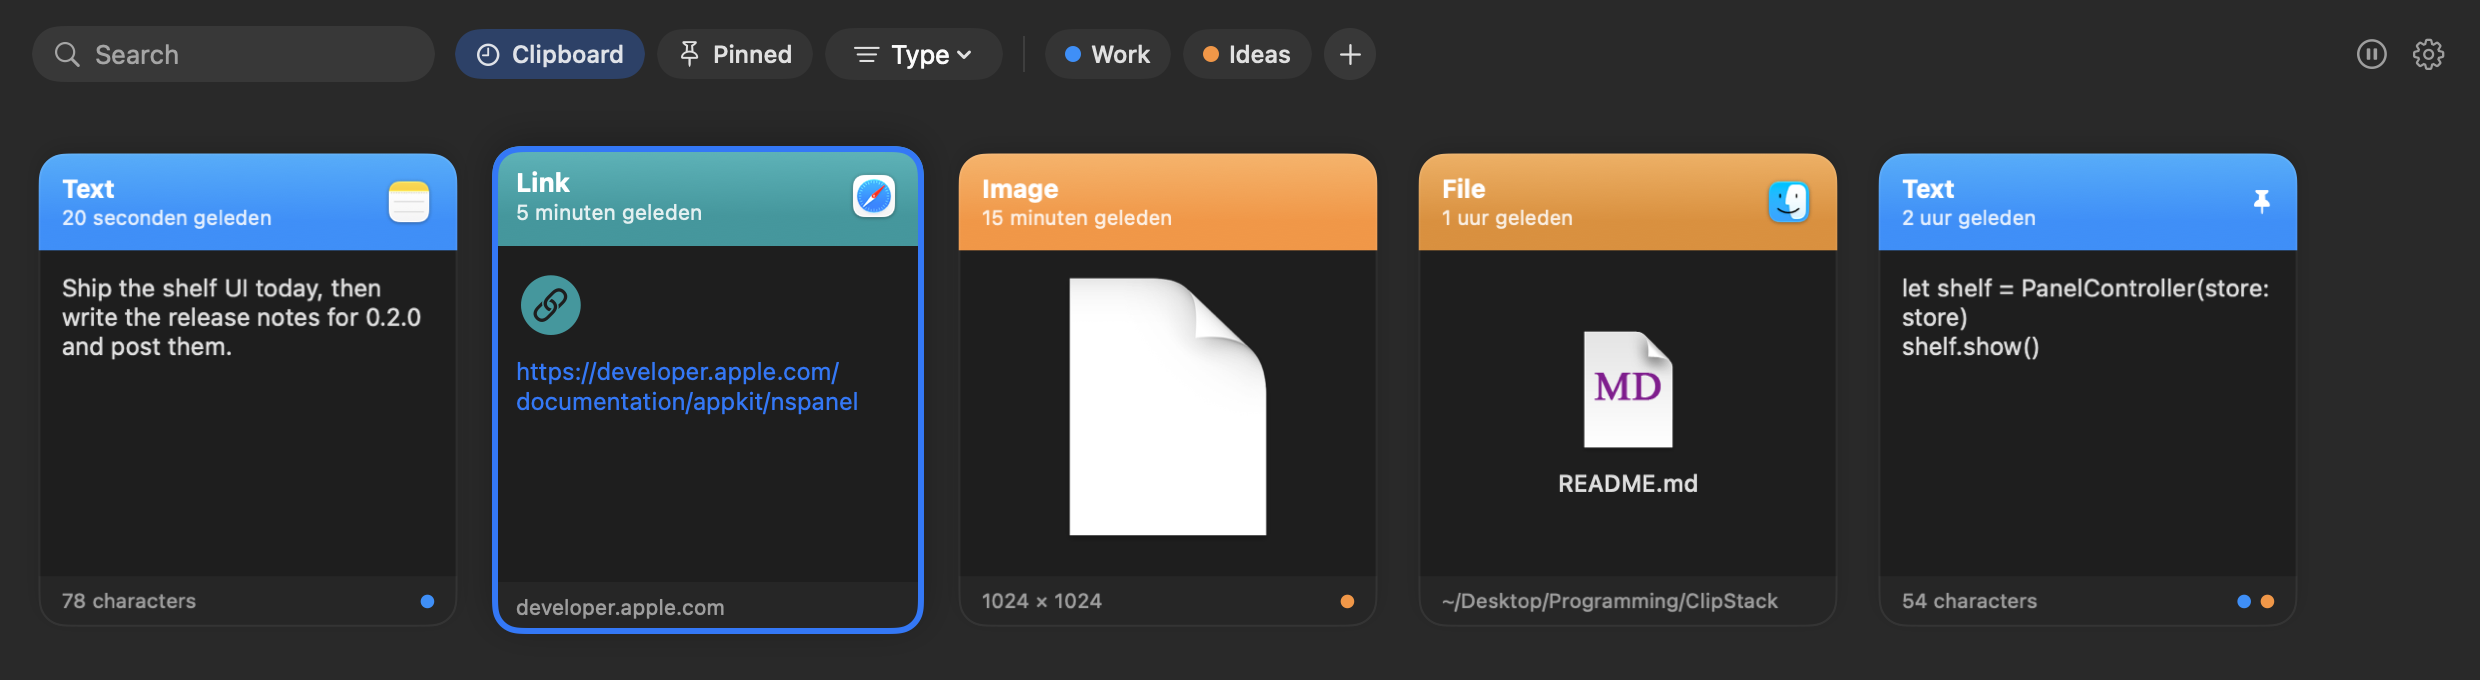
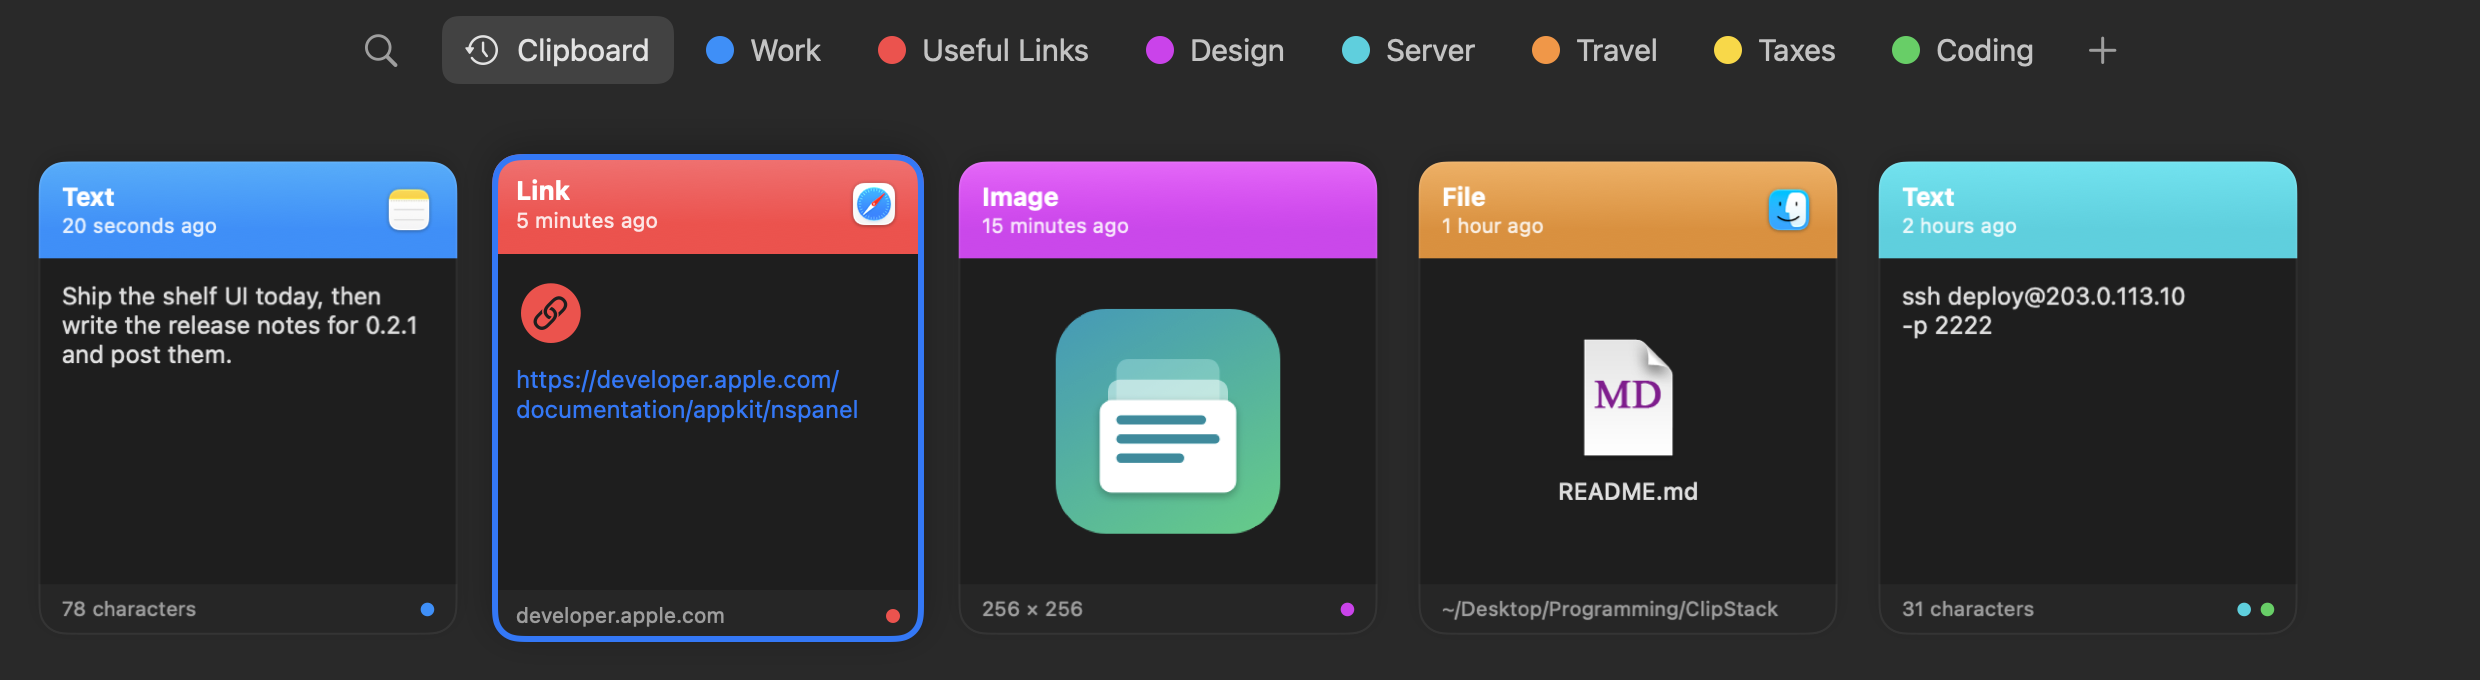
Restyle shelf top bar; type to search (0.2.1)
- Centered row: search icon, Clipboard, categories as dots, +
- Typing on the shelf opens search; Esc clears then closes it
- Type filter moved into the search field; Pinned tab only when used
- Pause and Settings removed from the bar (still in the menu bar menu)

diff --git a/Sources/ShelfView.swift b/Sources/ShelfView.swift
@@ -19,6 +19,8 @@ final class ShelfModel: ObservableObject {
     /// Non-nil while the inline category name field is showing.
     @Published var categoryDraft: CategoryDraft?
     @Published var focusSearch = 0
+    /// The bar shows a search icon until search is opened by clicking it or typing.
+    @Published var searchActive = false
 
     /// Items currently on screen, in order, for arrow-key navigation.
     var visibleItems: [ClipItem] = []
@@ -41,8 +43,22 @@ final class ShelfModel: ObservableObject {
         selectedIndex = min(max(selectedIndex + delta, 0), visibleItems.count - 1)
     }
 
+    func closeSearch() {
+        search = ""
+        searchActive = false
+        if case .kind = tab { tab = .all }
+    }
+
+    /// Starts a search from a key typed while the shelf has focus.
+    func beginSearch(with characters: String) {
+        searchActive = true
+        search += characters
+        focusSearch += 1
+    }
+
     func reset() {
         search = ""
+        searchActive = false
         selectedIndex = 0
         qrItem = nil
         categoryDraft = nil
@@ -108,44 +124,34 @@ struct ShelfView: View {
 
 // MARK: - Top bar
 
+/// One centered row: search icon, Clipboard, the user's categories, and +.
 private struct ShelfBar: View {
     @ObservedObject var model: ShelfModel
     @Environment(\.managedObjectContext) private var context
     @FetchRequest(sortDescriptors: [SortDescriptor(\ClipCategory.createdAt)])
     private var categories: FetchedResults<ClipCategory>
-    @AppStorage(Prefs.capturePaused) private var paused = false
+    @FetchRequest(sortDescriptors: [], predicate: NSPredicate(format: "isPinned == YES"))
+    private var pinned: FetchedResults<ClipItem>
     @FocusState private var searchFocused: Bool
     @FocusState private var draftFocused: Bool
 
     var body: some View {
-        HStack(spacing: 10) {
-            HStack(spacing: 6) {
-                Image(systemName: "magnifyingglass").foregroundStyle(.secondary)
-                TextField("Search", text: $model.search)
-                    .textFieldStyle(.plain)
-                    .focused($searchFocused)
-                    .frame(width: 160)
-                if !model.search.isEmpty {
-                    Button { model.search = "" } label: { Image(systemName: "xmark.circle.fill") }
-                        .buttonStyle(.plain)
-                        .foregroundStyle(.secondary)
-                }
-            }
-            .padding(.horizontal, 10).padding(.vertical, 6)
-            .background(.quaternary.opacity(0.7), in: Capsule())
-
+        GeometryReader { geometry in
             ScrollView(.horizontal, showsIndicators: false) {
-                HStack(spacing: 6) {
-                    Chip(title: "Clipboard", systemImage: "clock", selected: model.tab == .all) { model.tab = .all }
-                    Chip(title: "Pinned", systemImage: "pin", selected: model.tab == .pinned) { model.tab = .pinned }
-                    kindMenu
-                    Divider().frame(height: 18).padding(.horizontal, 4)
+                HStack(spacing: 4) {
+                    search
+                    Tab(title: "Clipboard", systemImage: "clock.arrow.circlepath", selected: model.tab == .all) {
+                        model.tab = .all
+                    }
+                    if !pinned.isEmpty || model.tab == .pinned {
+                        Tab(title: "Pinned", systemImage: "pin", selected: model.tab == .pinned) { model.tab = .pinned }
+                    }
                     ForEach(categories) { category in
                         if model.categoryDraft?.editing == category {
                             draftField
                         } else {
-                            Chip(title: category.name, color: category.color,
-                                 selected: model.tab == .category(category.objectID)) {
+                            Tab(title: category.name, color: category.color,
+                                selected: model.tab == .category(category.objectID)) {
                                 model.tab = .category(category.objectID)
                             }
                             .contextMenu { categoryMenu(category) }
@@ -154,37 +160,58 @@ private struct ShelfBar: View {
                     if let draft = model.categoryDraft, draft.editing == nil {
                         draftField
                     } else {
-                        Button {
-                            model.categoryDraft = .init()
-                        } label: {
+                        Button { model.categoryDraft = .init() } label: {
                             Image(systemName: "plus")
-                                .frame(width: 26, height: 26)
-                                .background(.quaternary.opacity(0.7), in: Circle())
+                                .font(.system(size: 17, weight: .regular))
+                                .frame(width: 36, height: 34)
+                                .contentShape(Rectangle())
                         }
                         .buttonStyle(.plain)
+                        .foregroundStyle(.secondary)
                         .help("New category")
                     }
                 }
-                .padding(.vertical, 2)
+                .padding(.horizontal, 16)
+                .frame(minWidth: geometry.size.width)
             }
-
-            Toggle(isOn: $paused) { Image(systemName: paused ? "pause.circle.fill" : "pause.circle") }
-                .toggleStyle(.button)
-                .buttonStyle(.plain)
-                .foregroundStyle(paused ? .orange : .secondary)
-                .font(.title3)
-                .help(paused ? "Capture is paused" : "Pause capture")
-            SettingsLink { Image(systemName: "gearshape").font(.title3) }
-                .buttonStyle(.plain)
-                .foregroundStyle(.secondary)
-                .simultaneousGesture(TapGesture().onEnded { NSApp.activate() })
-                .help("Settings")
         }
-        .padding(.horizontal, 16)
-        .padding(.top, 12)
-        .padding(.bottom, 8)
-        .onChange(of: model.focusSearch) { searchFocused = true }
-        .onAppear { searchFocused = true }
+        .frame(height: 50)
+        .padding(.top, 8)
+        .onChange(of: model.searchActive) { searchFocused = model.searchActive }
+        .onChange(of: model.focusSearch) { if model.searchActive { searchFocused = true } }
+    }
+
+    @ViewBuilder
+    private var search: some View {
+        if model.searchActive {
+            HStack(spacing: 6) {
+                Image(systemName: "magnifyingglass").foregroundStyle(.secondary)
+                TextField("Search", text: $model.search)
+                    .textFieldStyle(.plain)
+                    .focused($searchFocused)
+                    .frame(width: 170)
+                kindMenu
+                Button { model.closeSearch() } label: { Image(systemName: "xmark.circle.fill") }
+                    .buttonStyle(.plain)
+                    .foregroundStyle(.secondary)
+            }
+            .font(.system(size: 15))
+            .padding(.horizontal, 12)
+            .frame(height: 34)
+            .background(Color.primary.opacity(0.1), in: RoundedRectangle(cornerRadius: 8))
+            .padding(.trailing, 6)
+        } else {
+            Button { model.searchActive = true } label: {
+                Image(systemName: "magnifyingglass")
+                    .font(.system(size: 17))
+                    .frame(width: 40, height: 34)
+                    .contentShape(Rectangle())
+            }
+            .buttonStyle(.plain)
+            .foregroundStyle(.secondary)
+            .help("Search (or just start typing)")
+            .padding(.trailing, 6)
+        }
     }
 
     private var kindMenu: some View {
@@ -192,29 +219,37 @@ private struct ShelfBar: View {
                                                     (.image, "Images", "photo"), (.file, "Files", "doc")]
         let current = kinds.first { model.tab == .kind($0.0) }
         return Menu {
+            Button("All Types") { model.tab = .all }
+            Divider()
             ForEach(kinds, id: \.0) { kind, title, icon in
                 Button { model.tab = .kind(kind) } label: { Label(title, systemImage: icon) }
             }
         } label: {
-            Label(current?.1 ?? "Type", systemImage: current?.2 ?? "line.3.horizontal.decrease")
+            Image(systemName: current?.2 ?? "line.3.horizontal.decrease.circle")
         }
         .menuStyle(.borderlessButton)
+        .menuIndicator(.hidden)
         .fixedSize()
-        .padding(.horizontal, 10).padding(.vertical, 5)
-        .background(current != nil ? Color.accentColor.opacity(0.25) : Color.primary.opacity(0.06), in: Capsule())
+        .foregroundStyle(current != nil ? Color.accentColor : .secondary)
+        .help(current.map { "Showing \($0.1)" } ?? "Filter by type")
     }
 
     private var draftField: some View {
-        TextField("Category name", text: Binding(
-            get: { model.categoryDraft?.name ?? "" },
-            set: { model.categoryDraft?.name = $0 }))
-            .textFieldStyle(.plain)
-            .focused($draftFocused)
-            .frame(width: 130)
-            .padding(.horizontal, 10).padding(.vertical, 5)
-            .background(Capsule().strokeBorder(Color.accentColor, lineWidth: 1.5))
-            .onSubmit { model.commitCategoryDraft(in: context) }
-            .onAppear { draftFocused = true }
+        HStack(spacing: 8) {
+            Circle().fill(Color.secondary).frame(width: 14, height: 14)
+            TextField("Category name", text: Binding(
+                get: { model.categoryDraft?.name ?? "" },
+                set: { model.categoryDraft?.name = $0 }))
+                .textFieldStyle(.plain)
+                .focused($draftFocused)
+                .frame(width: 140)
+                .onSubmit { model.commitCategoryDraft(in: context) }
+                .onAppear { draftFocused = true }
+        }
+        .font(.system(size: 15))
+        .padding(.horizontal, 12)
+        .frame(height: 34)
+        .background(RoundedRectangle(cornerRadius: 8).strokeBorder(Color.accentColor, lineWidth: 1.5))
     }
 
     @ViewBuilder
@@ -238,7 +273,8 @@ private struct ShelfBar: View {
     private static let colorNames = ["Red", "Orange", "Yellow", "Green", "Teal", "Blue", "Purple", "Pink"]
 }
 
-private struct Chip: View {
+/// A plain label with a colored dot or icon; the selected one sits in a rounded highlight.
+private struct Tab: View {
     let title: String
     var systemImage: String?
     var color: Color?
@@ -247,18 +283,20 @@ private struct Chip: View {
 
     var body: some View {
         Button(action: action) {
-            HStack(spacing: 5) {
+            HStack(spacing: 8) {
                 if let color {
-                    Circle().fill(color).frame(width: 8, height: 8)
+                    Circle().fill(color).frame(width: 14, height: 14)
                 } else if let systemImage {
-                    Image(systemName: systemImage).font(.system(size: 11, weight: .semibold))
+                    Image(systemName: systemImage).font(.system(size: 15))
                 }
                 Text(title).lineLimit(1)
             }
-            .font(.system(size: 12, weight: .medium))
-            .padding(.horizontal, 10).padding(.vertical, 5)
-            .background(selected ? (color ?? .accentColor).opacity(0.3) : Color.primary.opacity(0.06), in: Capsule())
-            .contentShape(Capsule())
+            .font(.system(size: 15))
+            .foregroundStyle(Color.primary.opacity(selected ? 1 : 0.85))
+            .padding(.horizontal, 12)
+            .frame(height: 34)
+            .background(selected ? Color.primary.opacity(0.14) : .clear, in: RoundedRectangle(cornerRadius: 8))
+            .contentShape(RoundedRectangle(cornerRadius: 8))
         }
         .buttonStyle(.plain)
     }
@@ -377,7 +415,8 @@ private struct ShelfCards: View {
     }
 
     private var emptyMessage: String {
-        switch model.tab {
+        if !model.search.isEmpty { return "Try a different search." }
+        return switch model.tab {
         case .category: "Right-click any card and choose Category to add it here."
         case .pinned: "Right-click a card and choose Pin."
         default: "Copy something and it will show up here."

diff --git a/Sources/FloatingPanel.swift b/Sources/FloatingPanel.swift
@@ -160,7 +160,7 @@ final class PanelController {
         case 53: // Esc
             if model.qrItem != nil { model.qrItem = nil }
             else if model.categoryDraft != nil { model.categoryDraft = nil }
-            else if !model.search.isEmpty { model.search = "" }
+            else if model.searchActive { model.closeSearch() }
             else { hide() }
             return true
         case _ where model.categoryDraft != nil:
@@ -175,7 +175,14 @@ final class PanelController {
             if let item = model.selectedItem { model.copy(item) }
             return true
         default:
-            return false
+            // Typing anywhere on the shelf opens search with that text.
+            let modifiers = event.modifierFlags.intersection([.command, .control, .option])
+            guard !model.searchActive, modifiers.isEmpty,
+                  let characters = event.characters, !characters.isEmpty,
+                  characters.unicodeScalars.allSatisfy({ !CharacterSet.controlCharacters.contains($0) && $0.value < 0xF700 })
+            else { return false }
+            model.beginSearch(with: characters)
+            return true
         }
     }
 }

diff --git a/README.md b/README.md
@@ -28,7 +28,7 @@
 | **Global hotkey** | ⇧⌘V opens the shelf over any app, on the screen your mouse is on |
 | **Categories** | Make your own color-coded categories and add any card to one or more of them |
 | **Search and filter** | Search all text, links and file names; filter by Text, Links, Images, Files |
-| **Keyboard first** | ← → to move between cards, Return to paste, type to search, Esc to close |
+| **Keyboard first** | ← → to move between cards, Return to paste, start typing to search, Esc to close |
 | **Click to copy** | Click a card to put it back on the clipboard, or turn on **auto-paste** |
 | **Pin** | Pinned items get their own tab; pinned and categorized items are never cleaned up |
 | **Instant QR Share** | Hover a link or short text and click the QR button to scan it with your phone |
@@ -83,7 +83,8 @@ defaults delete com.omid.clipstack
 | QR code | Hover a link or short-text card and click the QR button in its corner |
 | Close the shelf | **Esc**, or click outside it |
 | Change the shortcut | **Settings… → Show history**, click the shortcut and press new keys |
-| Stop capturing for a while | Click **⏸** in the shelf, or **Pause Capture** in the menu |
+| Search | Just start typing, or click the magnifying glass; the filter button inside narrows by type |
+| Stop capturing for a while | **Pause Capture** in the menu bar menu |
 
 ## Build from source
 

diff --git a/CHANGELOG.md b/CHANGELOG.md
@@ -1,5 +1,13 @@
 # Changelog
 
+## 0.2.1
+
+- Cleaner top bar: one centered row with a search icon, Clipboard, your categories as colored dots, and +
+- Start typing anywhere on the shelf to search; Esc clears the search, then closes it
+- Type filter (Text, Links, Images, Files) moved into the search field
+- Pinned tab appears only when something is pinned; Pause and Settings live in the menu bar menu
+- Empty search results say so instead of suggesting you copy something
+
 ## 0.2.0
 
 - New shelf interface: history slides up from the bottom of the screen as a horizontal row of large cards
